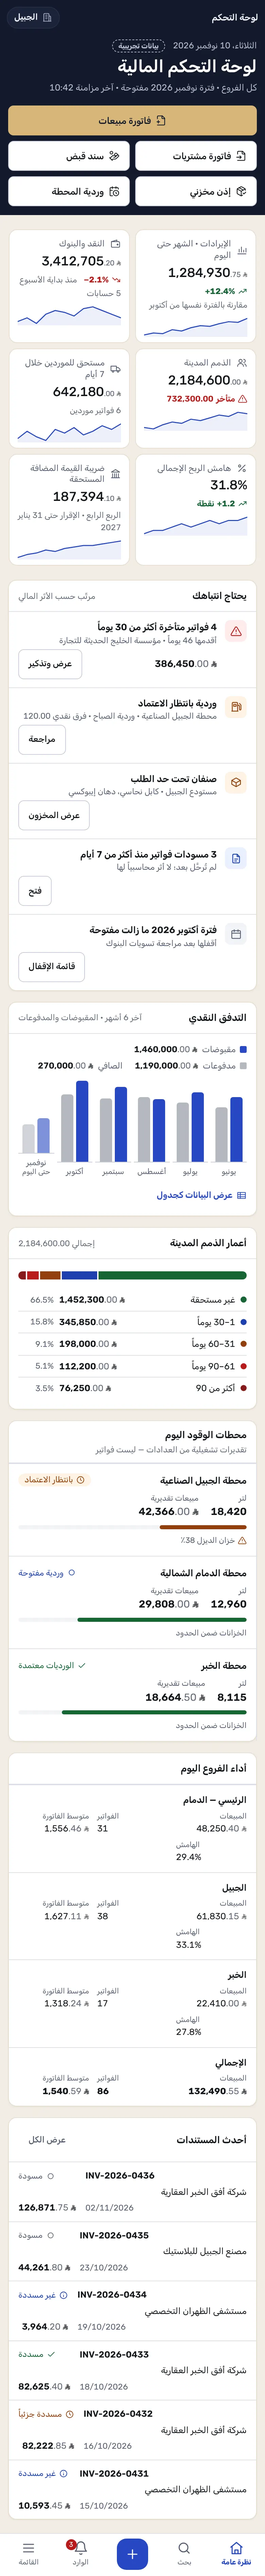
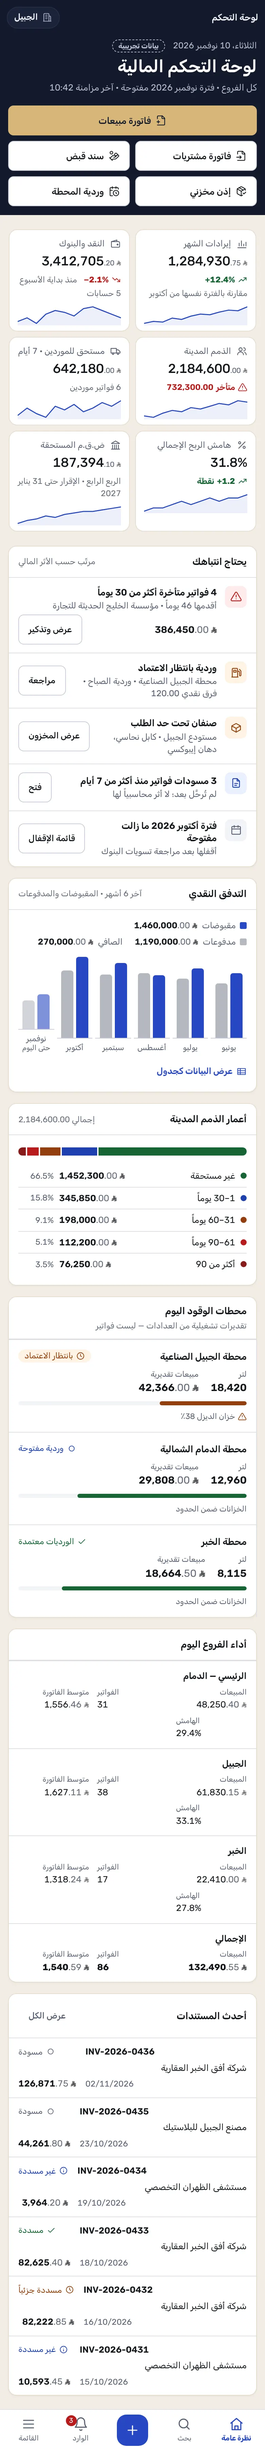
design-lab(V3): Liwan R2 — short phone KPI labels, quick access, rail labels, attention layout
Limited R2 inside the Design Lab (owner approved the R1 direction, not the identity):
- Phone KPI labels are short and one line (إيرادات الشهر · مستحق للموردين · 7 أيام ·
  ض.ق.م المستحقة / Revenue · MTD · Payables · 7 days); desktop keeps the full labels.
- «الأكثر استخداماً» → «وصول سريع» (Quick access). Lab data only, no usage tracking;
  the product must filter shortcuts by permission and support user preferences (noted in code).
- Tablet rail group names wrap to two centred lines instead of being cut.
- «Needs attention» on phones: an item without an amount keeps its action beside the
  text; secondary text 12.5px; targets stay 44px.
- Nasaq tokens, logo, accounting, backend and web/ unchanged.

Tests: 3 new regression tests + quick-access heading check (fail on R1: 27/31),
interactions 31/31, matrix 370/370. Six R2 comparison sheets and the R2 report.

Claude-Session: https://claude.ai/code/session_01YZ6ZucAPwBkEanPbB19BgF

Changed region(s): [[0.0, 0.0, 1.0, 0.9992]]

diff --git a/design-lab/signature/foundation/foundation.js b/design-lab/signature/foundation/foundation.js
@@ -82,7 +82,7 @@ const T = {
     employees:'الموظفون', payroll:'مسيّر الرواتب', workorders:'أوامر الشغل', shift:'وردية المحطة', stations:'المحطات', tanks:'الخزانات',
     taxSettings:'إعدادات الضرائب', roles:'الأدوار والصلاحيات', reports:'التقارير',
     kit:'مكتبة المكوّنات', numbers:'مختبر الأرقام (M2)', rules:'قواعد الأرقام والإجراءات', identity:'طبقة الهوية',
-    search:'ابحث أو نفّذ أمراً…', searchShort:'بحث', create:'إنشاء', inbox:'الوارد', menu:'القائمة', frequent:'الأكثر استخداماً', notOnLab:'هذه الوحدة غير ممثّلة في المختبر',
+    search:'ابحث أو نفّذ أمراً…', searchShort:'بحث', create:'إنشاء', inbox:'الوارد', menu:'القائمة', quickAccess:'وصول سريع', notOnLab:'هذه الوحدة غير ممثّلة في المختبر',
     branch:'الفرع', period:'الفترة', allBranches:'كل الفروع', periodOpen:'نوفمبر 2026 · مفتوحة', periodLocked:'مقفلة', ctxTitle:'سياق العمل',
     br_dmm:'الدمام', br_jbl:'الجبيل', br_khb:'الخبر', brChanged:'تغيّر الفرع النشط',
     priority:'الأولوية', all:'الكل', inbox1:'وردية الجبيل الصناعية بانتظار اعتمادك', inbox1d:'فرق نقدي −35.00 مع سبب مسجّل', inbox2:'3 فواتير تجاوزت 60 يوماً', inbox2d:'أكبرها لشركة الواحة بقيمة 148,920.00', inbox3:'أسمنت بورتلاندي تحت حد الطلب في الجبيل', inbox3d:'الرصيد 40 كيس · حد الطلب 120', open:'فتح', snooze:'تأجيل',
@@ -149,7 +149,7 @@ const T = {
     employees:'Employees', payroll:'Payroll', workorders:'Work orders', shift:'Station shift', stations:'Stations', tanks:'Tanks',
     taxSettings:'Tax settings', roles:'Roles & permissions', reports:'Reports',
     kit:'Component kit', numbers:'Numbers lab (M2)', rules:'Number & action rules', identity:'Identity layer',
-    search:'Search or run a command…', searchShort:'Search', create:'Create', inbox:'Inbox', menu:'Menu', frequent:'Frequent', notOnLab:'This module is not represented in the lab',
+    search:'Search or run a command…', searchShort:'Search', create:'Create', inbox:'Inbox', menu:'Menu', quickAccess:'Quick access', notOnLab:'This module is not represented in the lab',
     branch:'Branch', period:'Period', allBranches:'All branches', periodOpen:'Nov 2026 · open', periodLocked:'locked', ctxTitle:'Work context',
     br_dmm:'Dammam', br_jbl:'Jubail', br_khb:'Khobar', brChanged:'Active branch changed',
     priority:'Priority', all:'All', inbox1:'Jubail Industrial shift awaits your approval', inbox1d:'Cash variance −35.00 with a logged reason', inbox2:'3 invoices past 60 days', inbox2d:'Largest is Al Waha at 148,920.00', inbox3:'Portland cement below reorder in Jubail', inbox3d:'On hand 40 bags · reorder at 120', open:'Open', snooze:'Snooze',
@@ -697,10 +697,12 @@ function overlay() {
   if (o.t === 'palette') return `<div class="ovl top" data-scrim>${palette()}</div>`;
   const sheet = (title, body, side = 'start', cls = '') => `<div class="ovl ${windowClass() === 'compact' ? 'bottom' : side}" data-scrim><div class="sheet${cls ? ' ' + cls : ''}" role="dialog" aria-modal="true" aria-label="${title}"><div class="sheet-h"><h3>${title}</h3><button type="button" class="ibtn" data-act="close" aria-label="${t('close')}">${ic('x')}</button></div><div class="sheet-b">${body}</div></div></div>`;
   const navItem = (it, icn) => { const [k, r] = it; return `<button type="button" class="sheet-a" data-route="${r || ''}" data-label="${k}" data-icon="${navIcon(it) || icn}" ${r === S.route ? 'aria-current="page"' : ''}>${navIc(it, icn)}<span class="lbl">${t(k)}</span></button>`; };
-  // Frequent: every NAV item that has a screen, in NAV order — a shortcut row, not a re-ordering of the groups below.
-  const frequent = NAV.flatMap(([, icn, items]) => items.filter(([, r]) => r && ROUTES.includes(r) && !['home','kit','numbers','rules','identity','dashboard'].includes(r) /* dashboard is already on the bottom bar */).map(it => [it, icn]));
-  const freqRow = frequent.length > 1 ? `<div class="nav-freq" role="group" aria-label="${t('frequent')}"><div class="sheet-grp">${t('frequent')}</div><div class="freq-g">${frequent.map(([it, icn]) => `<button type="button" class="freq-a" data-route="${it[1]}" data-label="${it[0]}" ${it[1] === S.route ? 'aria-current="page"' : ''}>${navIc(it, icn)}<span>${t(it[0])}</span></button>`).join('')}</div></div>` : '';
-  if (o.t === 'navsheet') return sheet(t('menu'), `${freqRow}<div class="navlist">${NAV.map(([g, icn, items]) => `<div class="nav-sec"><div class="sheet-grp">${t(g)}</div>${items.map(it => navItem(it, icn)).join('')}</div>`).join('')}</div>`, 'start', 'sheet-nav');
+  /* Quick access: lab data — every NAV item that has a screen here, in NAV order; a shortcut row, not a re-ordering of the
+     groups below, and no usage tracking. In the product this list must be filtered by the user's permissions (never offer a
+     screen the server would refuse) and be adjustable as a user preference. */
+  const quick = NAV.flatMap(([, icn, items]) => items.filter(([, r]) => r && ROUTES.includes(r) && !['home','kit','numbers','rules','identity','dashboard'].includes(r) /* dashboard is already on the bottom bar */).map(it => [it, icn]));
+  const quickRow = quick.length > 1 ? `<div class="nav-quick" role="group" aria-label="${t('quickAccess')}"><div class="sheet-grp">${t('quickAccess')}</div><div class="quick-g">${quick.map(([it, icn]) => `<button type="button" class="quick-a" data-route="${it[1]}" data-label="${it[0]}" ${it[1] === S.route ? 'aria-current="page"' : ''}>${navIc(it, icn)}<span>${t(it[0])}</span></button>`).join('')}</div></div>` : '';
+  if (o.t === 'navsheet') return sheet(t('menu'), `${quickRow}<div class="navlist">${NAV.map(([g, icn, items]) => `<div class="nav-sec"><div class="sheet-grp">${t(g)}</div>${items.map(it => navItem(it, icn)).join('')}</div>`).join('')}</div>`, 'start', 'sheet-nav');
   if (o.t === 'group') { const [g, icn, items] = NAV.find(n => n[0] === o.g); return sheet(t(g), `<div class="navlist">${items.map(it => navItem(it, icn)).join('')}</div>`, 'start', 'sheet-nav'); }
   if (o.t === 'create') return sheet(t('create'), [['newSales','file-plus-2','sales'],['newPurch','file-input','purchase'],['newReceipt','hand-coins',null],['newPermit','package-check',null]].map(([k, i, r]) => `<button type="button" class="sheet-a" data-route="${r || ''}" data-label="${k}">${icon(i)}${t(k)}</button>`).join(''));
   if (o.t === 'context') return sheet(t('ctxTitle'), `<div class="sheet-grp">${t('branch')}</div>${['dmm','jbl','khb'].map(b => `<button type="button" class="sheet-a" data-branch="${b}" ${S.branch === b ? 'aria-current="page"' : ''}>${ic('building')}${t('br_' + b)}</button>`).join('')}<div class="sheet-grp">${t('period')}</div><div class="sheet-a" style="cursor:default">${ic('calendar')}${t('periodOpen')}</div><div class="sheet-a" style="cursor:default;color:var(--awj-text-tertiary)">${ic('lock')}${S.lang === 'ar' ? 'سبتمبر 2026 · مقفلة' : 'Sep 2026 · locked'}</div>`);

diff --git a/design-lab/signature/foundation/foundation.css b/design-lab/signature/foundation/foundation.css
@@ -73,14 +73,15 @@
 .nav-a:focus-visible{outline-color:var(--awj-shell-focus-ring);outline-offset:-2px}
 .side-foot{padding:10px;border-top:1px solid var(--awj-shell-line)}
 /* Rail (medium) */
-.rail{width:72px;display:none;flex-direction:column;align-items:stretch;gap:2px;padding:10px 6px;height:100%;overflow:auto}
+.rail{width:72px;display:none;flex-direction:column;align-items:stretch;gap:2px;padding:10px 4px;height:100%;overflow:auto}
 .rail .mk{width:36px;height:36px;margin:0 auto 10px;border-radius:9px;display:grid;place-items:center;background:var(--awj-shell-brandmark-bg);color:var(--awj-shell-bg);font-weight:800}
 .rail-b{position:relative;display:flex;flex-direction:column;align-items:center;gap:3px;min-height:56px;justify-content:center;border:0;background:transparent;color:var(--awj-shell-fg-muted);border-radius:10px;font-size:10.5px;padding:4px 2px}
 .rail-b svg{width:20px;height:20px}
 .rail-b:hover{background:var(--awj-shell-hover);color:var(--awj-shell-fg)}
 .rail-b[aria-current="true"]{background:var(--awj-shell-active-bg);color:var(--awj-shell-active-fg);box-shadow:var(--awj-shell-active-shadow)}
 .rail-b[aria-current="true"] svg{color:var(--awj-shell-apex)}
-.rail-b .lbl{max-width:64px;overflow:hidden;text-overflow:ellipsis;white-space:nowrap}
+/* R2: a group name wraps to two centred lines instead of being cut ("العملاء والمو…") */
+.rail-b .lbl{max-width:100%;text-align:center;line-height:1.2;overflow:hidden;display:-webkit-box;-webkit-line-clamp:2;-webkit-box-orient:vertical;hyphens:auto}
 .rail-b:focus-visible{outline-color:var(--awj-shell-focus-ring);outline-offset:-2px}
 /* Bottom bar (compact) */
 .bbar{display:none;grid-area:bbar;align-items:stretch;justify-content:space-around;background:var(--awj-surface-paper);border-top:1px solid var(--awj-border-hairline);padding:4px 4px calc(6px + env(safe-area-inset-bottom,0px));z-index:6}
@@ -289,17 +290,17 @@ table.dt{width:100%;border-collapse:separate;border-spacing:0;font-size:13.5px}
 .navlist .sheet-a svg{width:20px;height:20px}
 .navlist .sheet-a[aria-current="page"] svg{color:var(--awj-action-primary)}
 .navlist .sheet-a[aria-current="page"]::before{content:"";position:absolute;inset-inline-start:0;inset-block:10px;width:3px;border-radius:2px;background:var(--awj-action-primary)}
-.navlist .sheet-a:focus-visible,.freq-a:focus-visible{outline-offset:-2px}
-/* frequent: the screens used every day, one tap from the menu — a shortcut row above the full, unchanged group order */
-.nav-freq{padding-block:2px 12px;border-bottom:1px solid var(--awj-border-hairline)}
-.nav-freq .sheet-grp{padding:8px 10px 6px;font-size:12px;letter-spacing:.02em}
-.freq-g{display:grid;grid-template-columns:repeat(auto-fit,minmax(72px,1fr));gap:6px}
-.freq-a{position:relative;display:flex;flex-direction:column;align-items:center;justify-content:center;gap:6px;min-height:64px;padding:8px 4px;border:1px solid var(--awj-border-hairline);border-radius:var(--awj-radius-control);background:transparent;color:var(--awj-text-primary);font-size:12px;line-height:1.25;text-align:center}
-.freq-a span{overflow-wrap:anywhere}
-.freq-a svg{width:20px;height:20px;flex:none;color:var(--awj-text-tertiary)}
-.freq-a:hover{background:var(--awj-state-hover)}
-.freq-a[aria-current="page"]{background:var(--awj-state-selected);border-color:var(--awj-action-primary);font-weight:600}
-.freq-a[aria-current="page"] svg{color:var(--awj-action-primary)}
+.navlist .sheet-a:focus-visible,.quick-a:focus-visible{outline-offset:-2px}
+/* quick access: shortcut tiles above the full, unchanged group order */
+.nav-quick{padding-block:2px 12px;border-bottom:1px solid var(--awj-border-hairline)}
+.nav-quick .sheet-grp{padding:8px 10px 6px;font-size:12px;letter-spacing:.02em}
+.quick-g{display:grid;grid-template-columns:repeat(auto-fit,minmax(72px,1fr));gap:6px}
+.quick-a{position:relative;display:flex;flex-direction:column;align-items:center;justify-content:center;gap:6px;min-height:64px;padding:8px 4px;border:1px solid var(--awj-border-hairline);border-radius:var(--awj-radius-control);background:transparent;color:var(--awj-text-primary);font-size:12px;line-height:1.25;text-align:center}
+.quick-a span{overflow-wrap:anywhere}
+.quick-a svg{width:20px;height:20px;flex:none;color:var(--awj-text-tertiary)}
+.quick-a:hover{background:var(--awj-state-hover)}
+.quick-a[aria-current="page"]{background:var(--awj-state-selected);border-color:var(--awj-action-primary);font-weight:600}
+.quick-a[aria-current="page"] svg{color:var(--awj-action-primary)}
 .tabs{display:flex;gap:4px;border-bottom:1px solid var(--awj-border-hairline);padding:0 12px}
 .tabs button{position:relative;border:0;background:transparent;padding:10px 12px;color:var(--awj-text-secondary);font-size:13px}
 .tabs button[aria-selected="true"]{color:var(--awj-text-primary);font-weight:600}
@@ -496,7 +497,7 @@ table.dt{width:100%;border-collapse:separate;border-spacing:0;font-size:13.5px}
 }
 @container fx (max-width:359px){.lines tr{grid-template-columns:repeat(2,minmax(0,1fr))}}
 @media (prefers-reduced-motion:reduce){.fx *,.fx *::before,.fx *::after{animation:none!important;transition:none!important}}
-@media (forced-colors:active){.nav-a[aria-current="page"]::before,.navlist .sheet-a[aria-current="page"]::before{background:Highlight}.rail-b[aria-current="true"],.freq-a[aria-current="page"]{outline:2px solid Highlight}}
+@media (forced-colors:active){.nav-a[aria-current="page"]::before,.navlist .sheet-a[aria-current="page"]::before{background:Highlight}.rail-b[aria-current="true"],.quick-a[aria-current="page"]{outline:2px solid Highlight}}
 
 /* ---------- Direction: directional glyphs mirror in RTL (back, chevrons). Non-directional icons never mirror. ---------- */
 .fx[dir="rtl"] .dir-icon{transform:scaleX(-1)}

diff --git a/design-lab/signature/signature.js b/design-lab/signature/signature.js
@@ -35,6 +35,8 @@ const AR = {
   today:'الثلاثاء، 10 نوفمبر 2026', demoData:'بيانات تجريبية', quick:'إجراءات سريعة',
   qaSales:'فاتورة مبيعات', qaPurch:'فاتورة مشتريات', qaReceipt:'سند قبض', qaPermit:'إذن مخزني', qaShift:'وردية المحطة',
   kpis:'المؤشرات المالية', kRev:'الإيرادات · الشهر حتى اليوم', kCash:'النقد والبنوك', kAR:'الذمم المدينة', kAP:'مستحق للموردين خلال 7 أيام', kMargin:'هامش الربح الإجمالي', kVat:'ضريبة القيمة المضافة المستحقة',
+  /* phone labels (R2): shorter, same accounting meaning; the time context stays (الشهر · 7 أيام) and the footer keeps the comparison basis */
+  kRevS:'إيرادات الشهر', kAPS:'مستحق للموردين · 7 أيام', kVatS:'ض.ق.م المستحقة',
   vsOct:'مقارنة بالفترة نفسها من أكتوبر', vsWeek:'منذ بداية الأسبوع', nAccounts:'5 حسابات', overdue:'متأخر', bills:'6 فواتير موردين', pts:'نقطة', vatDue:'الربع الرابع · الإقرار حتى 31 يناير 2027',
   attn:'يحتاج انتباهك', attnSub:'مرتّب حسب الأثر المالي',
   a1:'4 فواتير متأخرة أكثر من 30 يوماً', a1m:'أقدمها 46 يوماً · مؤسسة الخليج الحديثة للتجارة', a1b:'عرض وتذكير',
@@ -59,6 +61,7 @@ const EN = {
   today:'Tuesday, 10 November 2026', demoData:'Sample data', quick:'Quick actions',
   qaSales:'Sales invoice', qaPurch:'Purchase invoice', qaReceipt:'Receipt voucher', qaPermit:'Stock permit', qaShift:'Station shift',
   kpis:'Financial indicators', kRev:'Revenue · month to date', kCash:'Cash & banks', kAR:'Receivables', kAP:'Payables due in 7 days', kMargin:'Gross margin', kVat:'VAT payable',
+  kRevS:'Revenue · MTD', kAPS:'Payables · 7 days', kVatS:'VAT payable',
   vsOct:'vs same period in October', vsWeek:'since start of week', nAccounts:'5 accounts', overdue:'Overdue', bills:'6 supplier bills', pts:'pts', vatDue:'Q4 · return due 31 Jan 2027',
   attn:'Needs your attention', attnSub:'Ordered by financial impact',
   a1:'4 invoices overdue by 30+ days', a1m:'Oldest 46 days · Modern Gulf Trading Est.', a1b:'Review & remind',
@@ -128,12 +131,13 @@ function dashboard(api) {
   const { t, ic, money, statusBadge, S, esc, nm, INV, invStatus, fmtDate, grp } = api;
   const loading = S.demo === 'loading', failed = S.demo === 'error';
   const sk = (w = '60%') => `<span class="sk" style="width:${w};display:block;height:14px"></span>`;
-  const kpi = (x) => `<li class="kpi" data-k="${x.k}"><div class="kpi-h">${ic(x.icon)}<span>${t(x.k)}</span></div>
+  const kpi = (x) => `<li class="kpi" data-k="${x.k}"><div class="kpi-h">${ic(x.icon)}<span>${SHORT_KPI.has(x.k) ? `<span class="kl has-s">${t(x.k)}</span><span class="ks">${t(x.k + 'S')}</span>` : t(x.k)}</span></div>
     ${loading ? `<div class="kpi-v">${sk('70%')}</div>` : `<div class="kpi-v">${x.pct ? `<span class="m pct">${x.pct}</span>` : money(x.v)}</div>`}
     <div class="kpi-f">${x.delta ? `<span class="delta ${x.good ? 'good' : 'bad'}">${ic(x.delta.startsWith('+') ? 'trendUp' : 'trendDown')}<b class="num">${x.delta}</b>${x.unit ? ` ${t(x.unit)}` : ''}</span><span class="muted">${t(x.note || '')}</span>` : ''}${x.overdue ? `<span class="delta bad">${ic('alert')}${t('overdue')} <b>${money(x.overdue, { sym: false })}</b></span>` : ''}${x.sub ? `<span class="muted">${t(x.sub)}</span>` : ''}</div>
     ${loading ? '' : spark(x.spark)}</li>`;
+  const SHORT_KPI = new Set(['kRev', 'kAP', 'kVat']);
   const att = [['neg','alert','a1',38645000,'sales'],['warn','fuel','a2',null,'shift'],['warn','box','a3',null,'inventory'],['info','file','a4',null,'sales'],['neutral','calendar','a5',null,'']];
-  const attItem = ([sev, icn, k, amt, route]) => `<li class="att sev-${sev}"><span class="sev">${ic(icn)}</span><div class="tx"><b>${t(k)}</b><span>${t(k + 'm')}</span></div>${amt ? `<span class="amt">${money(amt)}</span>` : '<span class="amt"></span>'}<button type="button" class="btn sm" ${route ? `data-route="${route}"` : `data-act="v3-na"`}>${t(k + 'b')}</button></li>`;
+  const attItem = ([sev, icn, k, amt, route]) => `<li class="att sev-${sev}${amt ? ' has-amt' : ''}"><span class="sev">${ic(icn)}</span><div class="tx"><b>${t(k)}</b><span>${t(k + 'm')}</span></div>${amt ? `<span class="amt">${money(amt)}</span>` : '<span class="amt"></span>'}<button type="button" class="btn sm" ${route ? `data-route="${route}"` : `data-act="v3-na"`}>${t(k + 'b')}</button></li>`;
   const maxC = Math.max(...CASH.flatMap(([, a, b]) => [a, b]));
   const cashBars = CASH.map(([m, a, b], i) => `<div class="mo${i === CASH.length - 1 ? ' cur' : ''}"><div class="pair" aria-hidden="true"><i class="in" style="--h:${(a / maxC * 100).toFixed(1)}%"></i><i class="out" style="--h:${(b / maxC * 100).toFixed(1)}%"></i></div><span class="lb">${t(m)}${i === CASH.length - 1 ? `<small>${t('partial')}</small>` : ''}</span></div>`).join('');
   const [, ci, co] = CASH[CASH.length - 1];

diff --git a/design-lab/signature/signature.css b/design-lab/signature/signature.css
@@ -137,6 +137,7 @@
 .kpi-h { display: flex; gap: 8px; align-items: center; font-size: 12.5px; color: var(--awj-text-secondary); min-width: 0; }
 .kpi-h span { overflow: hidden; display: -webkit-box; -webkit-line-clamp: 2; -webkit-box-orient: vertical; line-height: 1.35; }
 .kpi-h svg { width: 16px; height: 16px; flex: none; color: var(--awj-text-secondary); }
+.kpi-h .ks { display: none; }
 .kpi-v { min-height: 1.2em; }
 .kpi-v .m { font-family: var(--awj-figure-font); font-size: min(var(--awj-figure-size), 12.5cqi); font-weight: var(--awj-figure-weight); line-height: 1.15; letter-spacing: -.01em; color: var(--awj-text-primary); }
 .kpi-v .m .fr { font-size: .56em; font-weight: 400; color: var(--awj-text-secondary); }
@@ -223,6 +224,10 @@
   .qa .btn { justify-content: flex-start; } .qa .btn.primary { grid-column: 1 / -1; justify-content: center; }
   .att { grid-template-columns: auto minmax(0, 1fr) auto; grid-template-areas: "sev tx tx" "sev amt btn"; }
   .att .sev { grid-area: sev; align-self: start; } .att .tx { grid-area: tx; } .att .amt { grid-area: amt; text-align: start; } .att .btn { grid-area: btn; }
+  /* R2: an item without an amount keeps its action beside the text (no row of its own); targets stay 44px */
+  .att:not(.has-amt) { grid-template-areas: "sev tx btn"; } .att:not(.has-amt) .amt { display: none; } .att:not(.has-amt) .btn { align-self: center; }
+  .att .tx { gap: 2px; } .att .tx b { line-height: 1.35; } .att .tx span { font-size: 12.5px; line-height: 1.45; }
+  .kpi-h .kl.has-s { display: none; } .kpi-h .ks { display: inline; }
   .doc { grid-template-columns: minmax(0, 1fr) auto; grid-template-areas: "no st" "cu cu" "dt am"; }
   .doc .no { grid-area: no; } .doc .cu { grid-area: cu; } .doc .dt { grid-area: dt; } .doc .am { grid-area: am; } .doc .st { grid-area: st; justify-self: end; }
   .bars { height: 140px; gap: 4px; }

diff --git a/design-lab/signature/tools/liwan-previews-webp.py b/design-lab/signature/tools/liwan-previews-webp.py
@@ -1,11 +1,12 @@
 """Builds the Liwan refinement comparison sheets from the PNGs written by liwan-previews.mjs --commit
 (before-* and after-*), then deletes the PNGs so only a few webp sheets enter Git.
 Each sheet: Liwan before | Liwan after | Nasaq reference (the original, captured before the refinement).
-Usage: python3 design-lab/signature/tools/liwan-previews-webp.py  (needs Pillow)."""
-import glob, os
+Usage: python3 design-lab/signature/tools/liwan-previews-webp.py [set]   (set defaults to liwan; needs Pillow).
+Sheets whose PNGs are missing are skipped; an English capture (…-en.png) gets its own sheet."""
+import glob, os, sys
 from PIL import Image, ImageDraw, ImageFont
 
-d = os.path.join(os.path.dirname(os.path.abspath(__file__)), '..', 'previews', 'liwan')
+d = os.path.join(os.path.dirname(os.path.abspath(__file__)), '..', 'previews', sys.argv[1] if len(sys.argv) > 1 else 'liwan')
 os.chdir(d)
 bold = '/usr/share/fonts/truetype/dejavu/DejaVuSans-Bold.ttf'
 font = ImageFont.truetype(bold, 30) if os.path.exists(bold) else ImageFont.load_default()
@@ -31,7 +32,8 @@ def load(name, h):
     return im.resize((im.width // 2, im.height // 2), Image.LANCZOS)  # sheets at 1x keep Git light
 
 
-for sheet, shot, h, ref in SHEETS:
+for (sheet, shot, h, ref), sfx in [(x, s) for x in SHEETS for s in ('', '-en')]:
+    sheet, shot = sheet + sfx, shot + sfx
     cols = [('LIWAN BEFORE', load(f'before-liwan-{shot}', h)), ('LIWAN AFTER', load(f'after-liwan-{shot}', h))]
     if ref:
         cols.append(('NASAQ (REFERENCE)', load(f'before-nasaq-{shot}', h)))

diff --git a/design-lab/signature/docs/AWJ-SIGNATURE-V3-LIWAN-R2-REPORT.md b/design-lab/signature/docs/AWJ-SIGNATURE-V3-LIWAN-R2-REPORT.md
@@ -1,0 +1,124 @@
+# AWJ Signature V3 — ليوان R2 (تنقيح محدود)
+
+> **الحالة:** للمراجعة. وافق المالك على اتجاه تحسينات R1 داخل Design Lab **دون اعتماد نهائي أو دمج**. لا Merge ولا Deploy ولا تفعيل للهوية.
+> **التاريخ:** 2026-11-14 · **النطاق:** `design-lab/signature/**` + مشغّل اختبارات V3 فقط.
+> **بلا تغيير:** الشعار، ألوان وتوكنز الهويتين، حزمة نَسَق (المرجع)، قواعد المحاسبة، Backend، `web/`.
+
+## 1. البنود الخمسة
+
+| # | الطلب | التنفيذ |
+|---|---|---|
+| 1 | اختصار تسميات مؤشرات الجوال مع وضوح المعنى المحاسبي والسياق الزمني | تسمية قصيرة **للجوال فقط** (حاوية لوحة التحكم < 560px)؛ سطح المكتب يبقى بالتسمية الكاملة. الجدول أدناه |
+| 2 | «الأكثر استخدامًا» ← «وصول سريع» | النص والصنف (`nav-quick`/`quick-a`) والمفتاح (`quickAccess`). البيانات تبقى تجريبية: شاشات المختبر الموجودة بترتيب القائمة، **بلا أي تتبع استخدام** |
+| 3 | قصّ تسميات المجموعات على اللوحي | التسمية تلتف على سطرين في الوسط بدل القطع بـ«…»؛ هامش الشريط المصغّر 6→4px ليتسع النص (العرض 72px كما هو) |
+| 4 | النصوص الثانوية وإجراءات «يحتاج انتباهك» على الهاتف | البند **بلا مبلغ** يضع زرّه بجانب النص بدل سطر مستقل؛ البند **بمبلغ** يبقى (مبلغ + زر) تحته. النص الثانوي 12→12.5px بتباعد أسطر 1.45. الأهداف 44px كما هي |
+| 5 | نَسَق مرجعًا | توكنز نَسَق لم تُلمس؛ عمود «NASAQ (REFERENCE)» في لوحات لوحة التحكم ملتقط قبل R2 |
+
+### تسميات المؤشرات (الجوال)
+
+| المؤشر | الكاملة (سطح المكتب) | القصيرة (الجوال) | ما يحفظ المعنى |
+|---|---|---|---|
+| الإيرادات | الإيرادات · الشهر حتى اليوم | **إيرادات الشهر** | «الشهر» يبقى؛ و«مقارنة بالفترة نفسها من أكتوبر» في التذييل يحدد أنها حتى اليوم |
+| | Revenue · month to date | **Revenue · MTD** | MTD مصطلح محاسبي قياسي |
+| الموردون | مستحق للموردين خلال 7 أيام | **مستحق للموردين · 7 أيام** | الأفق الزمني والطبيعة (مستحق) باقيان |
+| | Payables due in 7 days | **Payables · 7 days** | |
+| الضريبة | ضريبة القيمة المضافة المستحقة | **ض.ق.م المستحقة** | «المستحقة» تميّزها عن ضريبة المدخلات؛ والتذييل يذكر الربع وموعد الإقرار |
+| | VAT payable | VAT payable (بلا تغيير) | |
+| النقد، الذمم المدينة، هامش الربح | — | بلا تغيير | قصيرة أصلاً |
+
+**يحتاج قرارك:** اختصار «ض.ق.م» شائع لدى المحاسبين في السعودية، لكنه قد لا يكون واضحاً لكل مستخدم. البديل الأطول «الضريبة المستحقة» يفقد تحديد نوعها.
+
+التسمية الكاملة والقصيرة في المستند معاً، ويُعرض واحدة فقط (`display:none` للأخرى)، فقارئ الشاشة يقرأ الظاهرة وحدها.
+
+### «وصول سريع» في المنتج لاحقاً (موثَّق في الكود أيضاً)
+
+- **تصفية بالصلاحيات:** لا يُعرض اختصار لشاشة يرفضها الخادم للمستخدم.
+- **تفضيلات المستخدم:** إضافة وإزالة وترتيب الاختصارات.
+- **لا تتبع استخدام الآن:** لم يُبنَ أي نظام تتبع. أي قرار بترتيب حسب الاستخدام لاحقاً قرار منفصل.
+
+## 2. القياسات (390px، الأرقام بنقاط CSS)
+
+| | قبل R2 | بعد R2 |
+|---|---|---|
+| طول لوحة التحكم — ليوان ar | 3,785 | 3,603 (**−4.8%**) |
+| طول لوحة التحكم — ليوان en | 3,790 | 3,654 (**−3.6%**) |
+| تسميات مؤشرات على سطرين | 3 من 6 (ar) | **0** |
+| بنود «يحتاج انتباهك» بزرّ في سطر مستقل | 4 من 5 | **0**؛ البند ذو المبلغ وحده يحمل سطر (مبلغ + زر) |
+| تسميات الشريط المصغّر المقطوعة (en) | 2 («Customers …»، «Accounting…») | **0** |
+
+## 3. الملفات
+
+| الملف | التغيير |
+|---|---|
+| `signature.js` | التسميات القصيرة (ar/en) وعرضها في المؤشر؛ صنف `has-amt` لبنود الانتباه |
+| `signature.css` | إظهار القصيرة على الجوال؛ تخطيط بنود الانتباه بلا مبلغ؛ النص الثانوي |
+| `foundation/foundation.js` | «وصول سريع» (المفتاح والأصناف) + تعليق متطلبات المنتج |
+| `foundation/foundation.css` | التفاف تسميات الشريط المصغّر؛ إعادة تسمية أصناف الوصول السريع |
+| `tools/liwan-previews.mjs`، `tools/liwan-previews-webp.py` | خيارات `--set` و`--only` و`--langs`، ولوحة مستقلة للإنجليزية |
+| `previews/liwan-r2/` (جديد) | 6 لوحات webp (448KB). اللقطات الكاملة (176) في `out/liwan-r2/` خارج Git |
+| `previews/*.webp` (8)، `checks.json`، `README.md` | أُعيد توليدها / حُدِّثت |
+| `design-lab/scripts/signature.mjs` | 3 اختبارات جديدة + فحص عنوان «وصول سريع» في اختبار القائمة |
+
+## 4. الاختبارات
+
+| الفحص | النتيجة |
+|---|---|
+| المصفوفة (370 تهيئة: 9 عروض × اتجاهان × 5 شاشات × فاتح/داكن × ar/en + مضغوط؛ axe، قصّ/التفاف المبالغ، التداخل، المحاذاة العشرية، RTL/LTR) | **370/370** |
+| التفاعل | **31/31** |
+| الجديد: تسميات الجوال سطر واحد، والسياق الزمني/المحاسبي باقٍ، وسطح المكتب بالكاملة (ar/en × الهويتان) | ✅ |
+| الجديد: لا تسمية مقطوعة في الشريط المصغّر (834px، ar/en × الهويتان) | ✅ |
+| الجديد: بند الانتباه بلا مبلغ زرّه بجانب النص، الأهداف ≥ 44px داخل البطاقة، النص الثانوي ≥ 12.5px (390 و360) | ✅ |
+| المحدَّث: عنوان «وصول سريع» / «Quick access» | ✅ |
+| على كود R1 | 4 تفشل (27/31)، فهي تحرس التغيير فعلاً |
+
+## 5. المعاينات
+
+`previews/liwan-r2/` (ليوان R1 | ليوان R2 | نَسَق مرجعاً حيث يلزم):
+
+| اللوحة | ما تُظهره |
+|---|---|
+| `compare-dashboard-phone.webp` و`-en.webp` | التسميات القصيرة وبنود الانتباه |
+| `compare-menu-phone.webp` و`-en.webp` | «وصول سريع» |
+| `compare-rail-tablet.webp` و`-en.webp` | تسميات المجموعات كاملة |
+
+**المعاينة التفاعلية (خاص):** https://claude.ai/artifact/WjVdZKoC8trXupscbQ4ibe
+
+## 6. التقييم النقدي
+
+**تحسّن:**
+- مؤشرات الجوال تُقرأ بنظرة واحدة: كل التسميات على سطر واحد، والبطاقات المتجاورة بالارتفاع نفسه تقريباً.
+- «يحتاج انتباهك» أقصر بوضوح، ويبقى الزر بجانب ما يخصّه.
+- لا تسمية مقطوعة في الشريط المصغّر.
+
+**لم يتحسّن أو له كلفة:**
+- **النص الثانوي** في بنود الانتباه بلا مبلغ صار يلتف أحياناً على سطرين أو ثلاثة لأن الزر يأخذ جزءاً من العرض (مثلاً «محطة الجبيل الصناعية · وردية الصباح · فرق نقدي 120.00»). الطول الكلي أقل، لكن السطر الواحد أكثف.
+- **التذييلات** لم تُختصر («الربع الرابع · الإقرار حتى 31 يناير 2027» ما زال سطرين على الجوال). خارج نطاق R2.
+- **عناوين بعض البنود** تلتف إلى سطرين بجانب الزر («فترة أكتوبر 2026 ما زالت مفتوحة»).
+- لوحة التحكم على الجوال أقصر بنحو 4–5% فقط؛ معظم طولها في المخططات والجداول التي لم يشملها R2.
+
+## 7. المخاطر
+
+| الخطر | التقدير |
+|---|---|
+| اختصار «ض.ق.م» | قرار محتوى للمالك (§1) |
+| تسميتان في المستند لكل مؤشر قصير | واحدة ظاهرة فقط؛ إذا ظهرت الاثنتان بخطأ CSS يلتقطه اختبار «سطر واحد» |
+| `-webkit-line-clamp` في الشريط المصغّر | مدعوم في Safari وChromium؛ اسم مجموعة من ثلاثة أسطر سيُقطع، ويلتقطه الاختبار |
+| المكوّنات مشتركة، فنَسَق يرث R2 (تسميات المؤشرات وبنود الانتباه والشريط المصغّر) | مقصود (نظام واحد)؛ توكنز نَسَق بلا تغيير |
+| لا اختبار على آيفون حقيقي | معاينتك على الجهاز هي البوابة |
+
+## 8. الفرع والـPR وCI
+
+| | |
+|---|---|
+| Branch | `claude/awj-signature-v3` |
+| PR | #2110 (مفتوح، بلا دمج) |
+| Base | `main` @ `e217e903348f8e808cbcafd06e778d9793351eb3` |
+| Head قبل R2 | `f62949a55d139f5b1068f6d02ef364818748d2a0` |
+| Head بعد R2 | يُذكر في رسالة التسليم وعلى الـPR |
+| CI | على `f62949a5`: لا فحص فاشل أو معلّق عند آخر حدث. التغيير داخل `design-lab/` فقط. ملاحظات Codex السبع على الـPR محلولة |
+
+## 9. المتبقي (بانتظار قرارك)
+
+1. المراجعة البصرية لـR2 على الجهاز.
+2. قرار «ض.ق.م» أو بديله.
+3. اختصار تذييلات المؤشرات على الجوال إن أردت مزيداً من القِصر.
